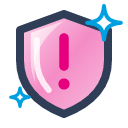
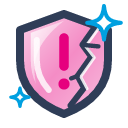
Build 1.2.86.0 [Debug 2026]
- generate_icons.py + resources/freefall*.png: Freefall shield now has a jagged crack (clear of the exclamation mark)

Changed region(s): [[0.5, 0.2188, 0.8125, 0.8438]]

diff --git a/revit_plugin/tools/generate_icons.py b/revit_plugin/tools/generate_icons.py
@@ -57,6 +57,7 @@ ICONS = {
 <path d="M9.200 10v5c0 3 1.200 5.500 3 7.500" fill="none" stroke="#fff" stroke-width="1.500" opacity=".8"/>
 <path d="M16 9.5v7" fill="none" stroke="{w}" stroke-width="2.4"/>
 <circle cx="16" cy="21" r="1.4" fill="{w}" stroke="none"/>
+<!-- crack --><path d="M24 6.4L20.6 11.2L22.8 14.2L19.4 19L21 22L17.6 26.4" fill="none" stroke="{i}" stroke-width="1.5"/><path d="M24.6 7.2L21.4 11.6L23.6 14.4L20.2 19.2L21.8 22.2" fill="none" stroke="{sp}" stroke-width=".7" opacity=".85"/><path d="M20.6 11.2L24.6 11.6M19.4 19L17.8 19.6" fill="none" stroke="{i}" stroke-width="1.1"/>
 <path d="M26 1.5c.3 3 1.2 3.9 4.2 4.2-3 .3-3.9 1.2-4.2 4.2-.3-3-1.2-3.9-4.2-4.2 3-.3 3.9-1.2 4.2-4.2z" fill="{sp}" stroke="{a}" stroke-width="1"/>
 <path d="M5 22c.2 1.6.7 2.1 2.3 2.3-1.6.2-2.1.7-2.3 2.3-.2-1.6-.7-2.1-2.3-2.3 1.6-.2 2.1-.7 2.3-2.3z" fill="{sp}" stroke="{a}" stroke-width=".8"/>''',
 # ---- Setup

diff --git a/revit_plugin/src/ProjectPerseus/Properties/AssemblyInfo.cs b/revit_plugin/src/ProjectPerseus/Properties/AssemblyInfo.cs
@@ -31,6 +31,6 @@ using System.Runtime.InteropServices;
 //
 // You can specify all the values or you can default the Build and Revision Numbers
 // by using the '*' as shown below:
-// [assembly: AssemblyVersion("1.2.85.0")]
-[assembly: AssemblyVersion("1.2.85.0")]
-[assembly: AssemblyFileVersion("1.2.85.0")]
+// [assembly: AssemblyVersion("1.2.86.0")]
+[assembly: AssemblyVersion("1.2.86.0")]
+[assembly: AssemblyFileVersion("1.2.86.0")]
